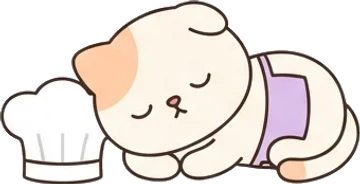
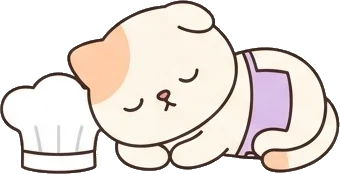
feat(personajes): sharper cut sprites, and the recipe for the next character
- The cut eats the JPEG halo (two passes) and keeps pale strokes; sprites
  export at their native size instead of 360 px.
- scripts/cutout-personaje.cjs and the three source sheets live in the repo,
  with personajes-src/README.md: the exact prompt that keeps it the same cat.

diff --git a/personajes-src/README.md b/personajes-src/README.md
@@ -1,0 +1,38 @@
+# personajes-src
+
+The source sheets of the characters (`src/lib/personaje.ts`): one image per character, the same cat
+in six moods on a 3 × 2 grid. The app never reads these — it reads the cut sprites in
+`public/personajes/<id>/<mode>.webp`.
+
+## Adding a character
+
+1. **Generate the sheet** (Figma MCP `generate_image`, model `gemini-3.1-flash-lite-image`, 1536 × 1024).
+   Keep the cat paragraph word for word — it is what makes every sheet the same cat:
+
+   > Character model sheet of ONE original cute kawaii cartoon cat: clean uniform black outlines, flat
+   > fills, simple round shapes, minimal detail. The cat is small and round, cream-white fur with a soft
+   > peach patch on its left ear, tiny dot eyes, a small pink nose, short stubby limbs, standing upright.
+   > This time the cat is dressed as a **⟨OUTFIT⟩**. The SAME cat appears six times in a neat 3 by 2 grid,
+   > full body, each with a different mood shown through face and pose: 1) deeply focused, eyes narrowed;
+   > 2) happy and sociable, big smile, waving; 3) excited with many ideas, star-shaped sparkling eyes,
+   > little stars and sparks around the head; 4) overwhelmed, dizzy swirl eyes and swirl lines above the
+   > head, ears down; 5) resting calmly, eyes closed, curled up asleep; 6) stuck and hesitant, looking
+   > sideways, one paw raised, unsure. Plain white background, no text, no labels, no borders, no shadows
+   > on the floor. Absolutely no blue anywhere.
+
+   The order of the six moods is the order of the modes: hiperfoco · conectada · mil ideas · saturada ·
+   recargando · no arranco.
+
+2. **Save it** here as `<id>.jpg` and **cut it**:
+
+   ```
+   node scripts/cutout-personaje.cjs personajes-src/<id>.jpg public/personajes/<id> hiperfoco,conectada,mil-ideas,saturada,recargando,no-arranco
+   ```
+
+3. **Look at every sprite on every mode colour** before shipping: the cut removes the paper by a flood
+   fill from the border, so a gap in an outline can eat part of a drawing.
+
+4. **Add it** to `personajes` in `src/lib/personaje.ts` with the garden size at which it arrives.
+
+The style is original: inspired by the clean line of newspaper comic strips, never a copy of an existing
+character — this repo is public.
